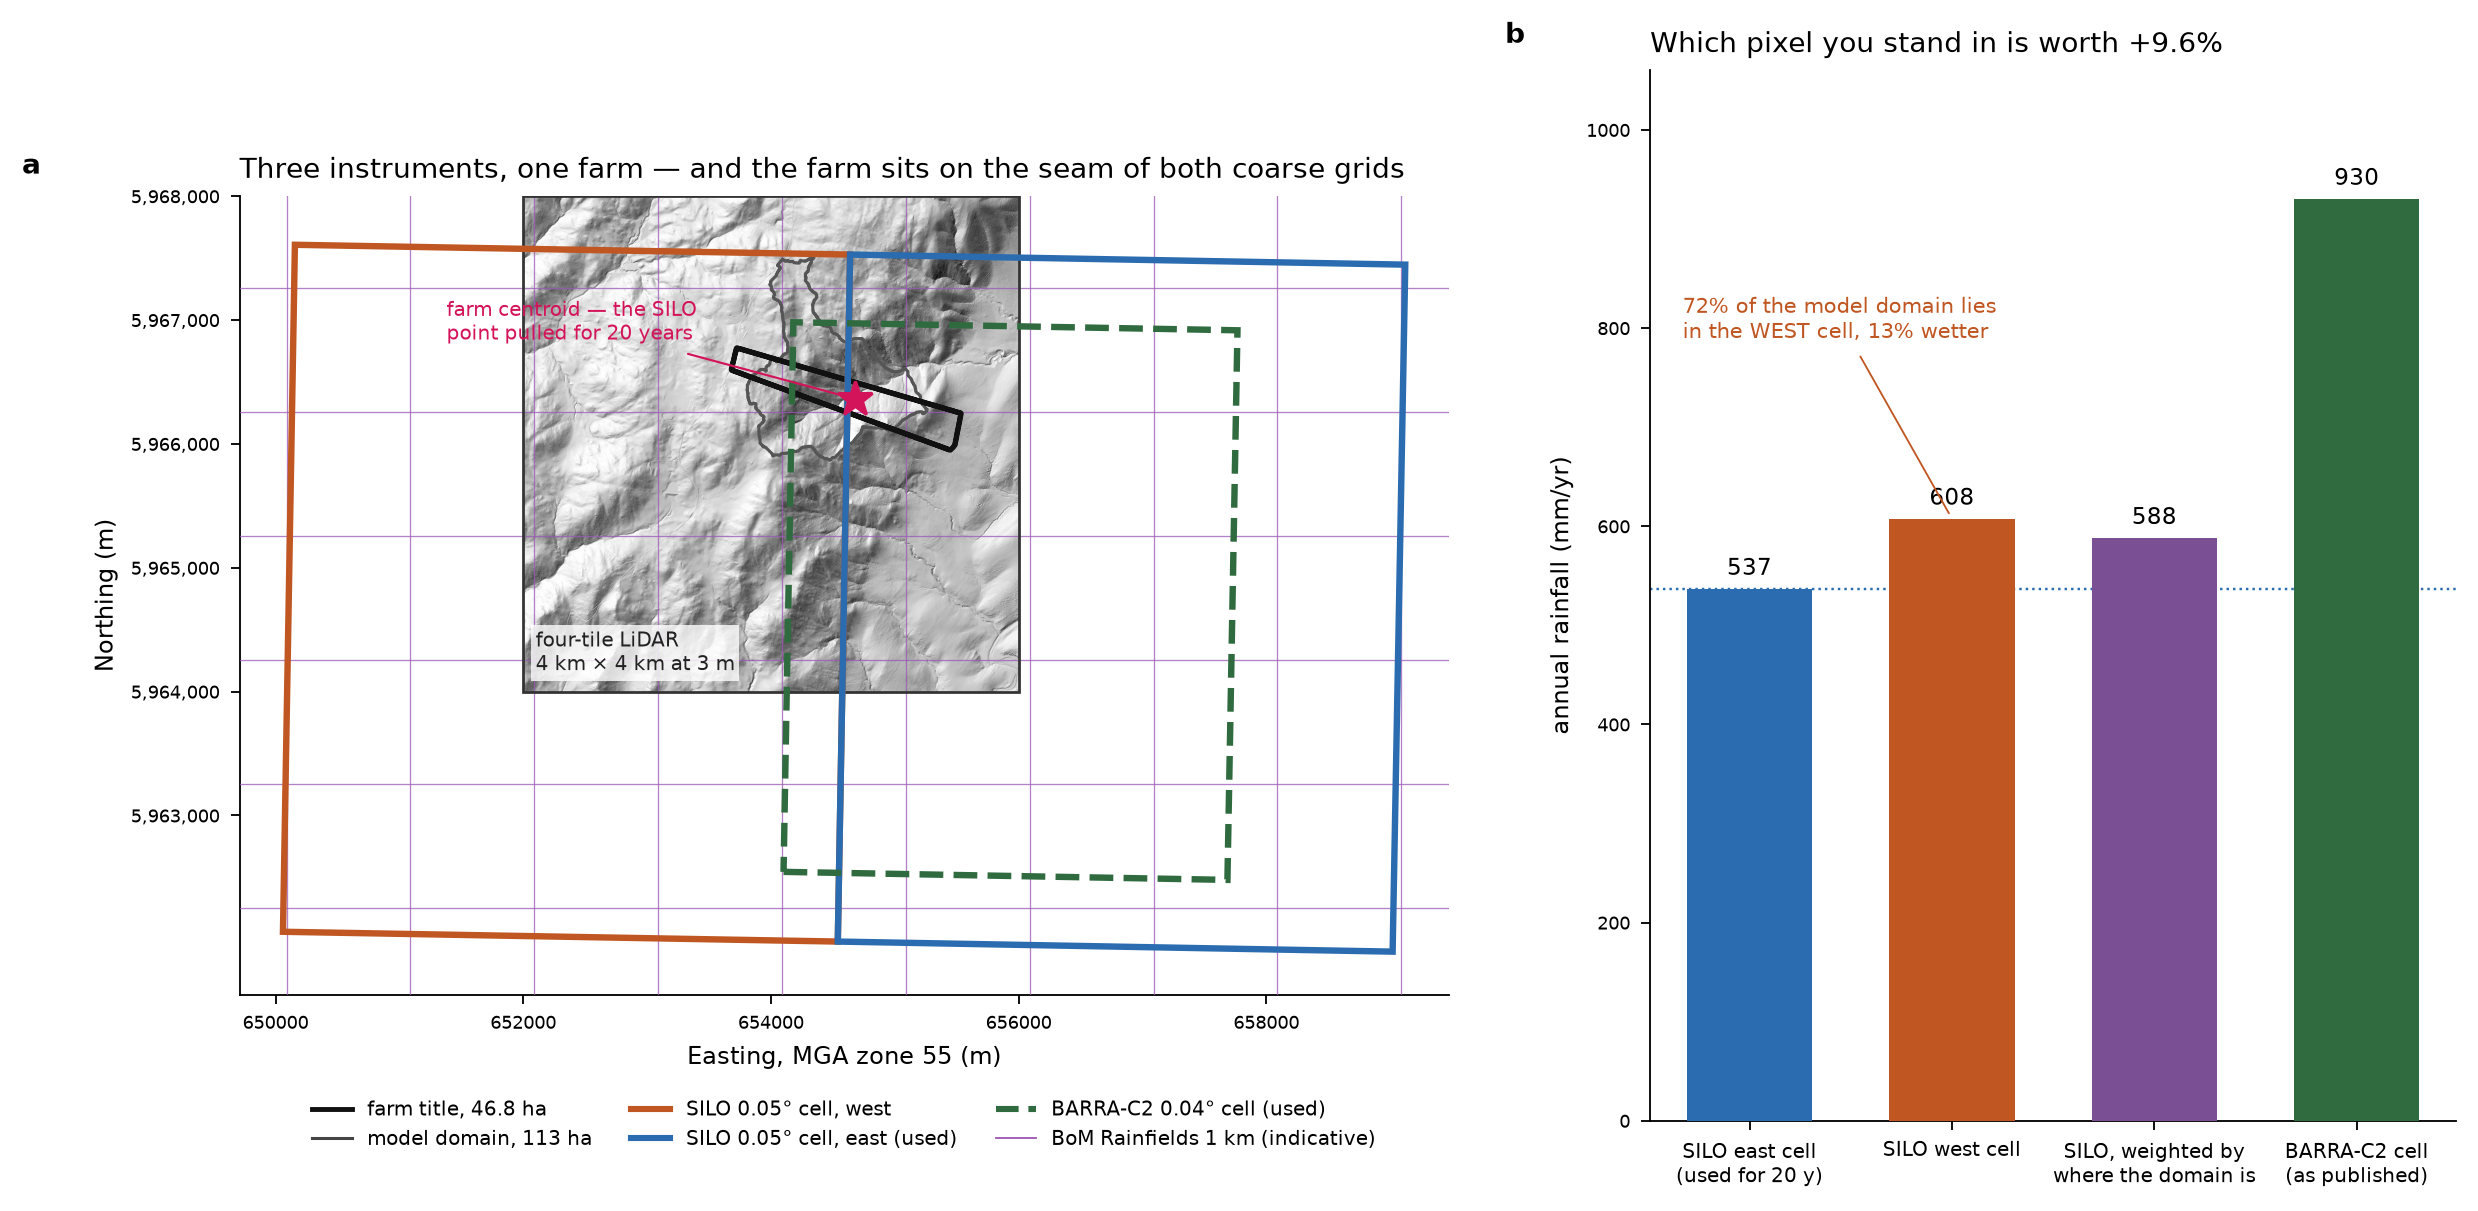
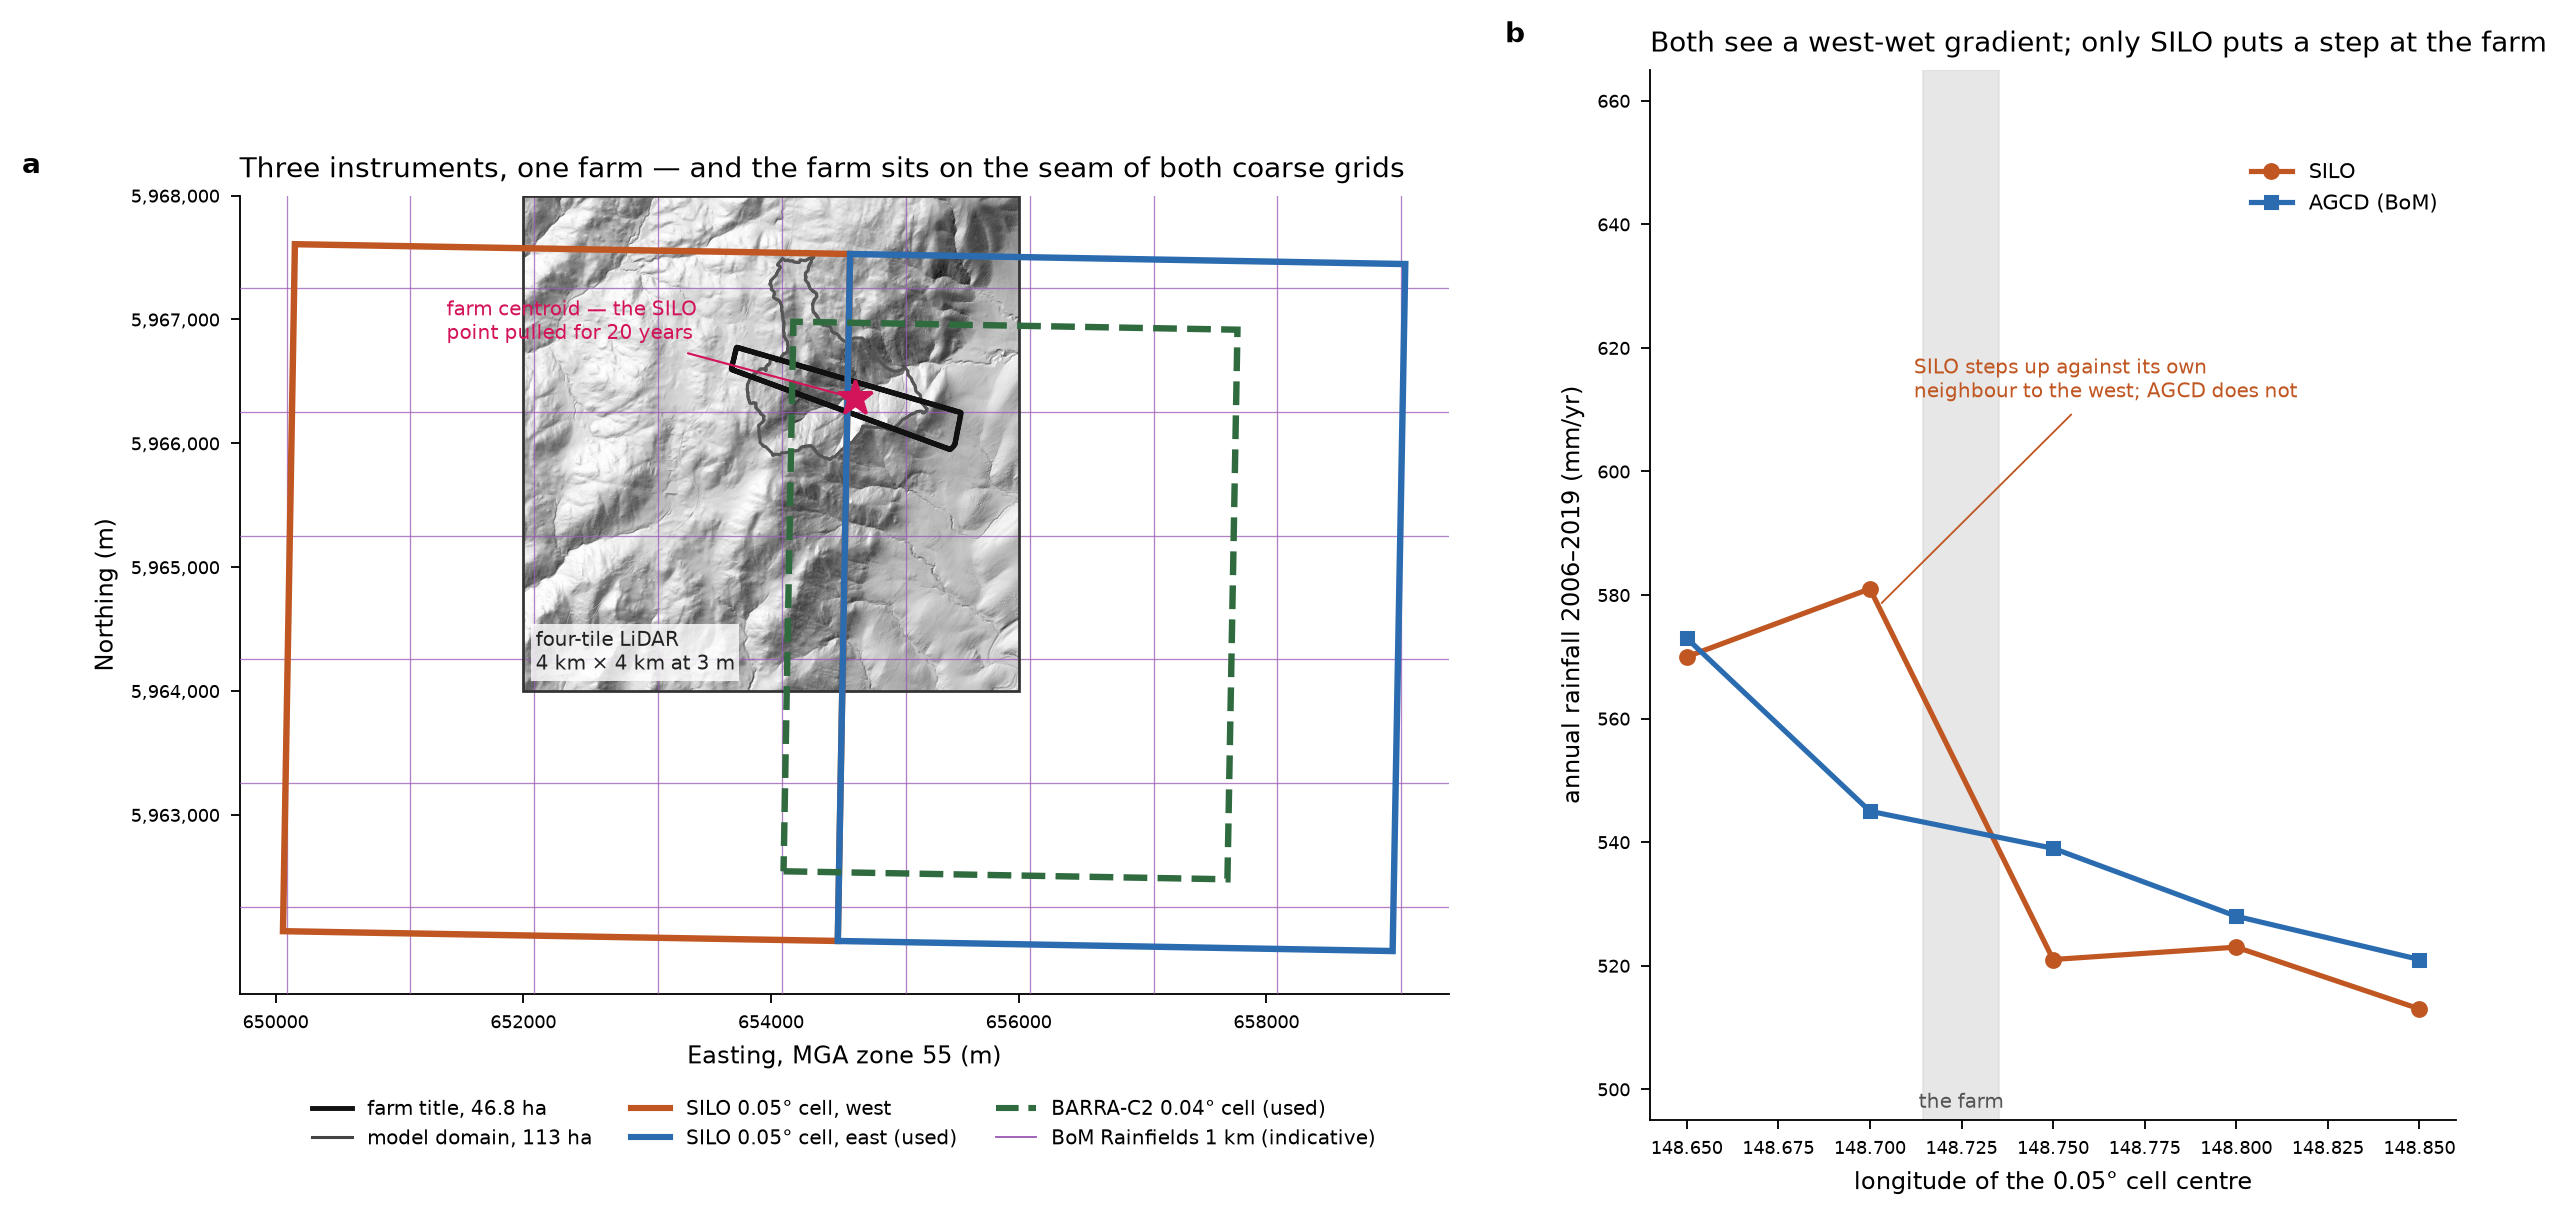
Withdraw the +9.6% SILO west-cell correction; AGCD does not support it
Pulled BoM's AGCD 0.05 deg daily analysis from NCI for 2006-2019. It shares SILO's
grid registration and agrees with it on daily rainfall at r = 0.976, but its west-east
transect is smooth and monotonic where SILO steps up 11 mm at the farm's western cell
against its own neighbour further west, then drops 60 mm in one cell. Domain weighting
gives +8.4% under SILO and +0.8% under AGCD, so the step is an interpolation artefact.
Panel b of the pixel figure now shows the two transects instead of the weighted bars.

diff --git a/README.md b/README.md
@@ -129,8 +129,21 @@ splits the farm too, leaving 26% of the domain outside the pixel we sampled.
 |---|---|
 | SILO east cell — used for the 20-year forcing | 536.9 |
 | SILO west cell | 607.7 |
-| weighted by where the model domain actually is | **588.2** |
 | BARRA-C2 cell, as published | 930.5 |
+
+**But do not correct the forcing on that basis.** BoM's own gridded analysis, AGCD, sits
+on the *same* 0.05° grid and was pulled from NCI for 2006–2019. The two products agree on
+daily rainfall almost perfectly (r = 0.976) and on a broad west-wet gradient across the
+window — and they disagree completely about where it steepens. Along latitude −36.45,
+AGCD declines smoothly from west to east (573, 545, 539, 528, 521 mm/yr) while SILO is
+**non-monotonic**, stepping *up* to 581 at the farm's western cell against 570 in the cell
+further west, then dropping 60 mm in one cell.
+
+Weighting by where the model domain actually lies therefore gives **+8.4% under SILO but
+only +0.8% under AGCD**. A gradient that one interpolation places exactly on the property
+boundary and the other does not place at all is an artefact of interpolation, not a
+measurement. Treat the farm's rainfall as **540–565 mm/yr with the upper end unsupported**,
+and do not silently adopt the SILO west cell as a correction.
 
 **Gauges, and which ones are real.** Of the stations within 60 km, several nearby records
 are entirely interpolated: Oak Vale (7.7 km) and Jindabyne (10.7 km) are **0% observed**
@@ -147,7 +160,8 @@ genuinely observing, and they are almost all to the east:
 | Cooma (Myalla) | 34.5 E | 1042 m | 94.5% | 608.7 |
 
 The single operating western gauge is **18% wetter than the nearest eastern one**, which
-supports the west-wet gradient with observations rather than interpolation. Across these
+supports a west-wet gradient at the 25 km scale — though Glochinbah is also 95 m higher,
+so elevation and longitude cannot be separated with one western gauge. Across these
 six, rainfall rises about 40 mm/yr per 100 m of elevation, though with n = 6 and elevation
 confounded with longitude the fit is weak (r² = 0.58, p = 0.08) and should not be leaned
 on hard.
